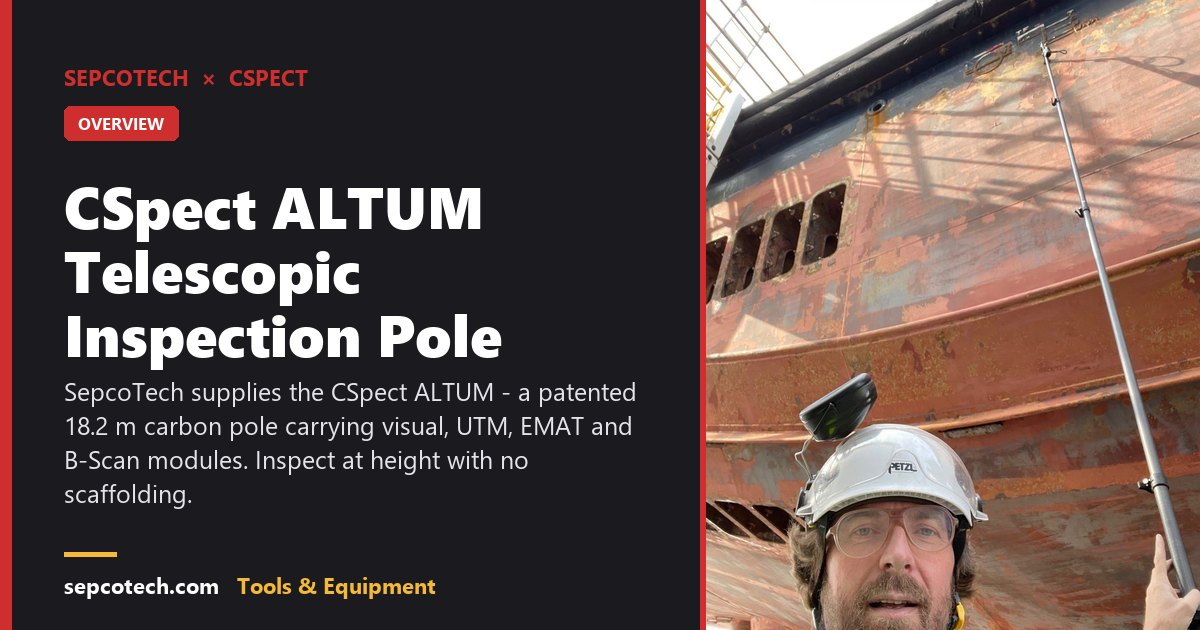
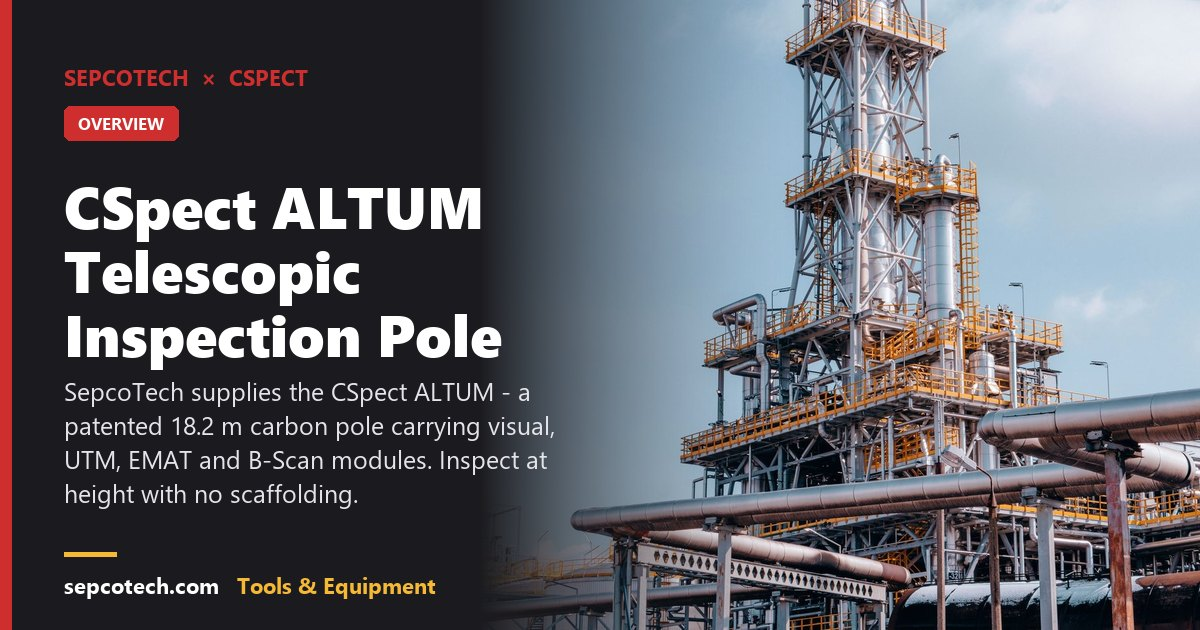
Remove 9 unknown-source photos; regenerate 6 social cards with Pexels photos

diff --git a/IMAGE-SOURCES.md b/IMAGE-SOURCES.md
@@ -146,3 +146,7 @@ Photos with no source on record were replaced by Pexels photos under the [Pexels
 | `FireSafety/images/ferry-deck.jpg` | https://www.pexels.com/photo/ferry-sailing-in-the-sea-of-japan-near-vladivostok-40905938/ | Lajos Kristóf Kántor | Pexels License | 2026-11-23 |
 | `Tool/hertzinno-pages/media/photos/ind-cargo-ship.jpg` (+ .webp twin) | https://unsplash.com/photos/red-and-white-ship-on-sea-under-cloudy-sky-during-daytime-U9_pRASawlc | Fredrick F. (@blackspeaker93) | Unsplash License | 2026-11-23 |
 | `Tool/hertzinno-pages/media/photos/ind-lng-carrier-red.jpg` (+ .webp twin) | https://www.pexels.com/photo/cargo-ships-on-sea-16691791/ | Ekaterina Dotsenko | Pexels License | 2026-11-23 |
+
+## Removed (23 Nov 2026)
+
+These 11 files (9 photos) had no source or licence on record and were removed from the pages and the repo: coastguard-kv, gallery-01, gallery-12, ship-utm, route-atlantic, route-europe, weather-map, seaspeed-drydock, roskilde-head-office-wide. The six social cards that used them were regenerated with Pexels photos.
